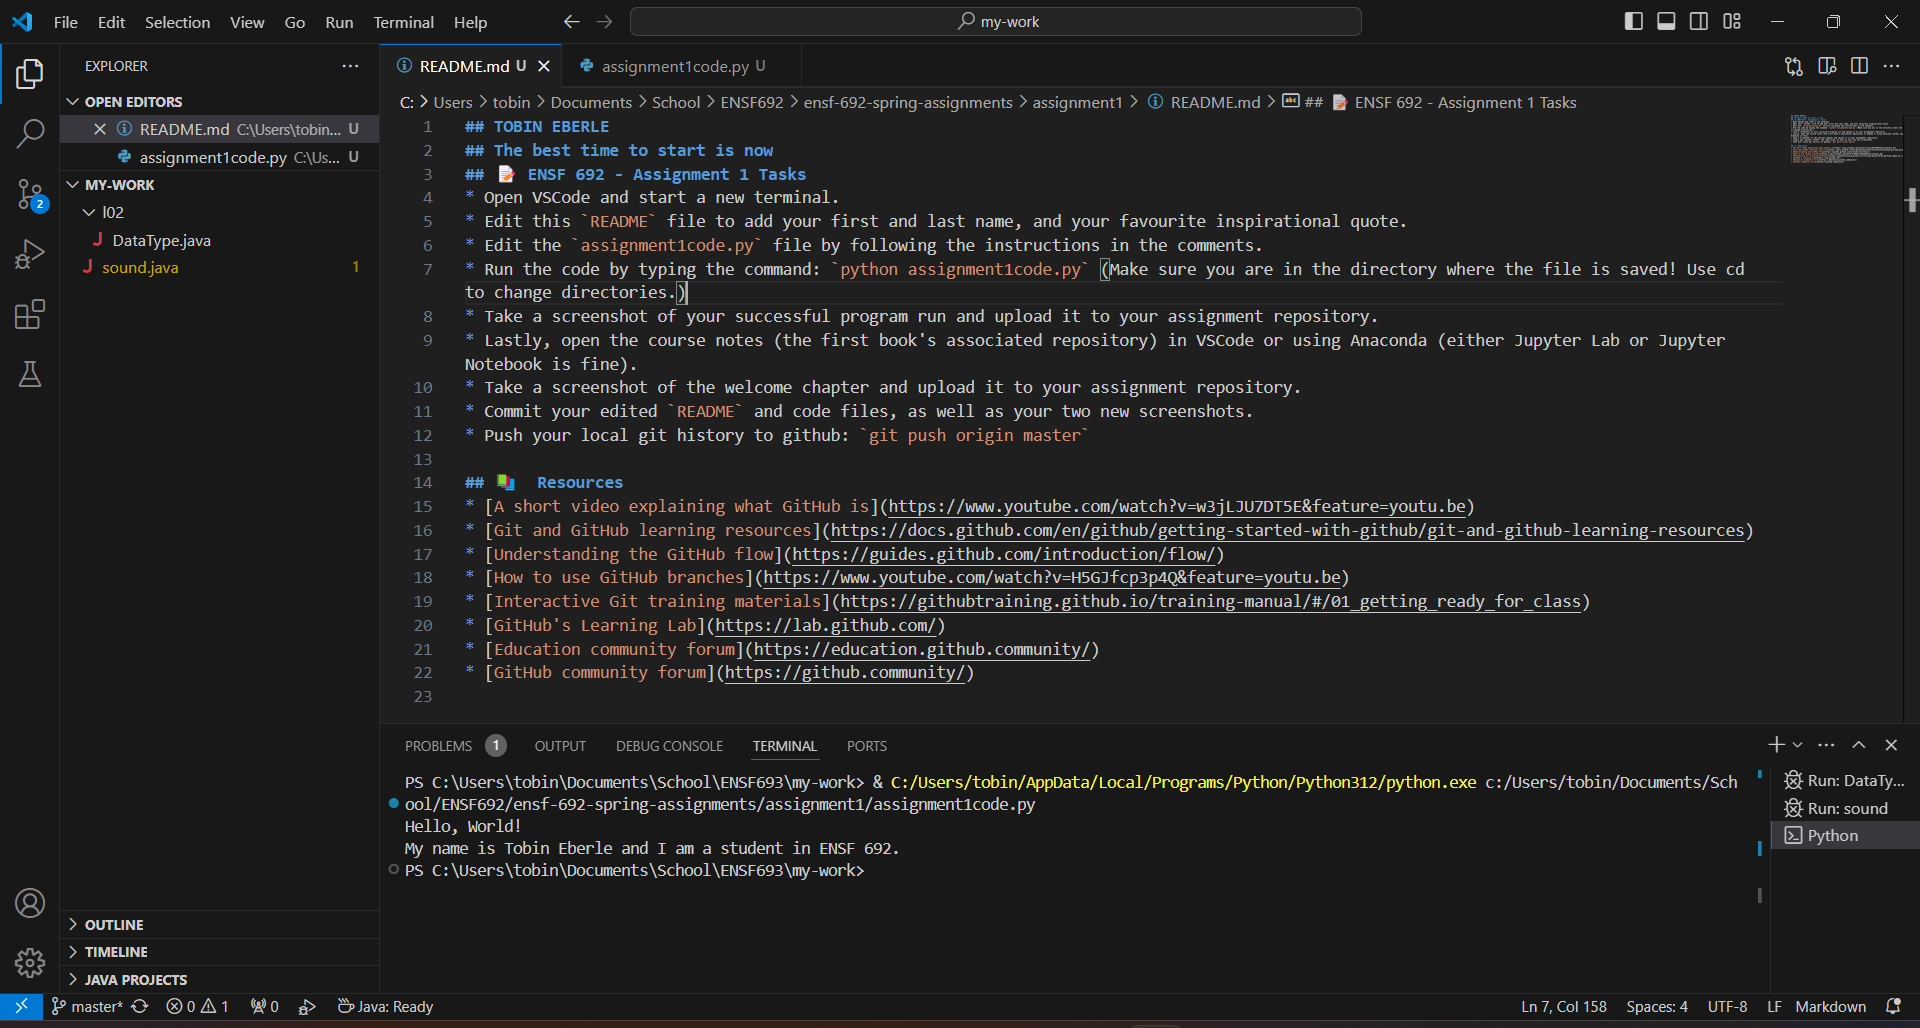
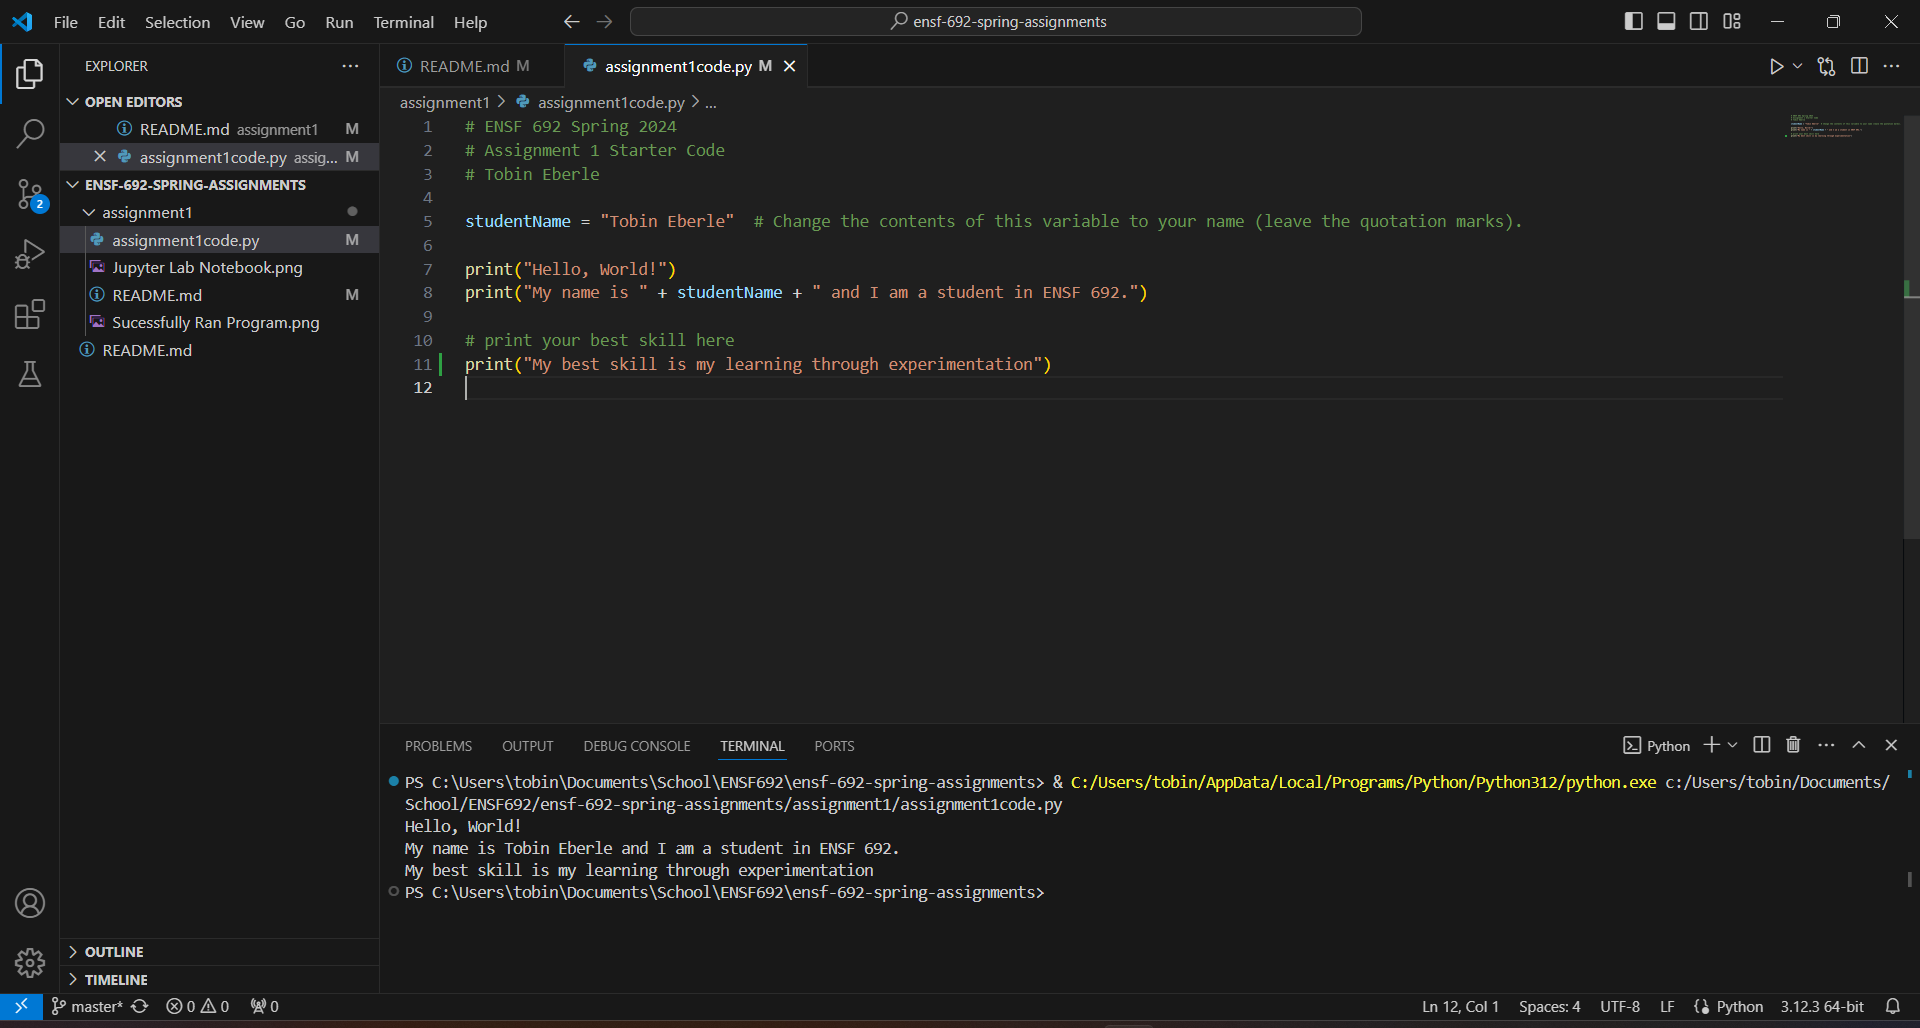
Second commit

diff --git a/assignment1/assignment1code.py b/assignment1/assignment1code.py
@@ -8,3 +8,4 @@ print("Hello, World!")
 print("My name is " + studentName + " and I am a student in ENSF 692.")
 
 # print your best skill here
+print("My best skill is my learning through experimentation")

diff --git a/assignment1/README.md b/assignment1/README.md
@@ -1,5 +1,5 @@
 ## TOBIN EBERLE
-## The best time to start is now
+## "The best time to start is now"
 ## 📝 ENSF 692 - Assignment 1 Tasks
 * Open VSCode and start a new terminal. 
 * Edit this `README` file to add your first and last name, and your favourite inspirational quote.
